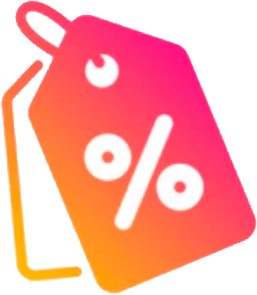
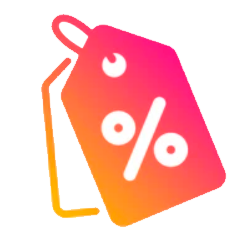
test

diff --git a/components/Desktop/Search/resaleEventDesktop.tsx b/components/Desktop/Search/resaleEventDesktop.tsx
@@ -8,13 +8,13 @@ import {useRef, useState} from "react";
 
 export default function ResaleEventDesktop({item}: { item: ResaleProduct }) {
     let [visibility, setVisibility] = useState(true);
-    let[translate, setTranslate] = useState("")
     const mainDivRef = useRef(null)
+    const mainDivTranslate = useRef(null)
 
     const handleRight = () => {
         const firstElement = mainDivRef.current.children[0];
         mainDivRef.current.style.transition = `1000ms linear`;
-        mainDivRef.current.style.transform = `translateX(-${mainDivRef.current.offsetWidth}px)`;
+        mainDivRef.current.style.transform = `translateX(-${mainDivTranslate.current.offsetWidth}px)`;
         const transition = () => {
             mainDivRef.current.style.transition = `none`;
             mainDivRef.current.style.transform = `translateX(0)`;
@@ -28,7 +28,7 @@ export default function ResaleEventDesktop({item}: { item: ResaleProduct }) {
         const lastElement = mainDivRef.current.children[lastIndex];
         mainDivRef.current.insertBefore(lastElement, mainDivRef.current.firstChild);
         mainDivRef.current.style.transition = `none`;
-        mainDivRef.current.style.transform = `translateX(-${mainDivRef.current.offsetWidth}px)`;
+        mainDivRef.current.style.transform = `translateX(-${mainDivTranslate.current.offsetWidth}px)`;
 
         setTimeout(() => {
             mainDivRef.current.style.transition = `1000ms linear`;
@@ -46,15 +46,15 @@ export default function ResaleEventDesktop({item}: { item: ResaleProduct }) {
                         {item.Name}
                     </div>
                 </div>
-                <div className={"relative"}>
+                <div ref={mainDivTranslate} className={"relative"}>
 
-                    <div onClick={handleLeft}
-                        onPointerOver={showArrow} onPointerOut={hiddeArrow}
-                         className={`${style.positionArrowLeft} ${visibility && utilities.opacity0}`}>
+                    <button onClick={handleLeft}
+                            onPointerOver={showArrow} onPointerOut={hiddeArrow}
+                            className={`${style.positionArrowLeft} ${visibility && utilities.opacity0}`}>
                         <div className={style.sizeArrow}>
                             <Image layout={"fill"} src={GlobalConst.sourceImages.leftArrow} alt={""}/>
                         </div>
-                    </div>
+                    </button>
 
                     <div onPointerOver={showArrow} onPointerOut={hiddeArrow} ref={mainDivRef}
                          className={`${utilities.fontSecundaryText} ${style.gridProducts}`}>
@@ -73,23 +73,31 @@ export default function ResaleEventDesktop({item}: { item: ResaleProduct }) {
                         }
                     </div>
 
-                    <div onClick={handleRight}
-                        onPointerOver={showArrow} onPointerOut={hiddeArrow}
-                         className={`${style.positionArrowRight} ${visibility && utilities.opacity0}`}>
+                    <button onClick={handleRight}
+                            onPointerOver={showArrow} onPointerOut={hiddeArrow}
+                            className={`${style.positionArrowRight} ${visibility && utilities.opacity0}`}>
                         <div className={style.sizeArrow}>
                             <Image layout={"fill"} src={GlobalConst.sourceImages.rightArrow} alt={""}/>
                         </div>
-                    </div>
+                    </button>
                 </div>
 
 
                 <Link href={""}>
                     <a className={`${utilities.fontSecundaryText} ${utilities.font12} ${style.divPrice}`}>
-                        <span className={utilities.fontPriceInclude}>Total: ${Intl.NumberFormat("ES-CL").format(Math.round(item.Price))} </span>
-                        <span>Antes: </span>
-                        <span className="line-through">
+                        <div className={style.sizeDiscount}>
+                            <Image layout={"fill"} src={"/images/discountIcon.png"}/>
+                        </div>
+                        <div>
+                            <span
+                                className={utilities.fontPriceInclude}>Total: ${Intl.NumberFormat("ES-CL").format(Math.round(item.Price))} </span>
+                        </div>
+                        <div>
+                            <span>Antes: </span>
+                            <span className="line-through">
                                                 ${Intl.NumberFormat("ES-CL"
-                        ).format(Math.round((item.Price * item.TotalDiscount / 100) + item.Price))}</span>
+                            ).format(Math.round((item.Price * item.TotalDiscount / 100) + item.Price))}</span>
+                        </div>
                     </a>
                 </Link>
             </div>

diff --git a/styles/Desktop/Search/resaleEventDesktop.module.css b/styles/Desktop/Search/resaleEventDesktop.module.css
@@ -34,9 +34,12 @@
 }
 
 .divPrice {
-    border-top: 1px solid var(--separationLineColor);
-    padding-top: 12px;
+    display: grid;
+    grid-template-columns: repeat(3, max-content);
     align-items: center;
+    gap: 6px;
+/*    border-top: 1px solid var(--separationLineColor);
+    padding-top: 12px;*/
 }
 
 .sizeImage {
@@ -57,6 +60,7 @@
     grid-auto-flow: column;
     overflow-x: hidden;
     position: relative;
+    transition: 1s;
 }
 
 .gridPriceName {
@@ -76,10 +80,18 @@
     position: absolute;
     top: calc(50% - 10px);
     left: 0;
+    z-index: 5000;
 }
 
 .positionArrowRight {
     position: absolute;
     top: calc(50% - 10px);
     right: 0;
+    z-index: 5000;
+}
+
+.sizeDiscount{
+    height: 18px;
+    width: 18px;
+    position: relative;
 }
